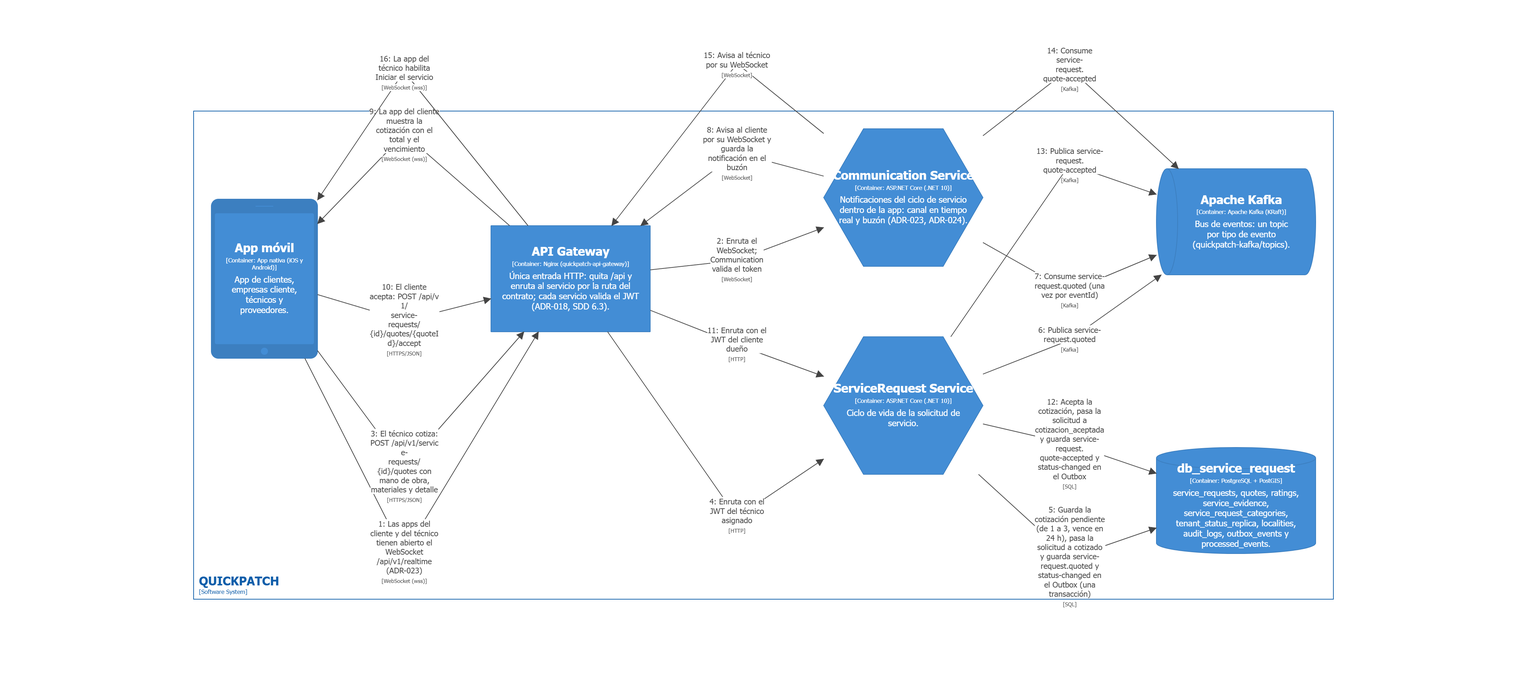
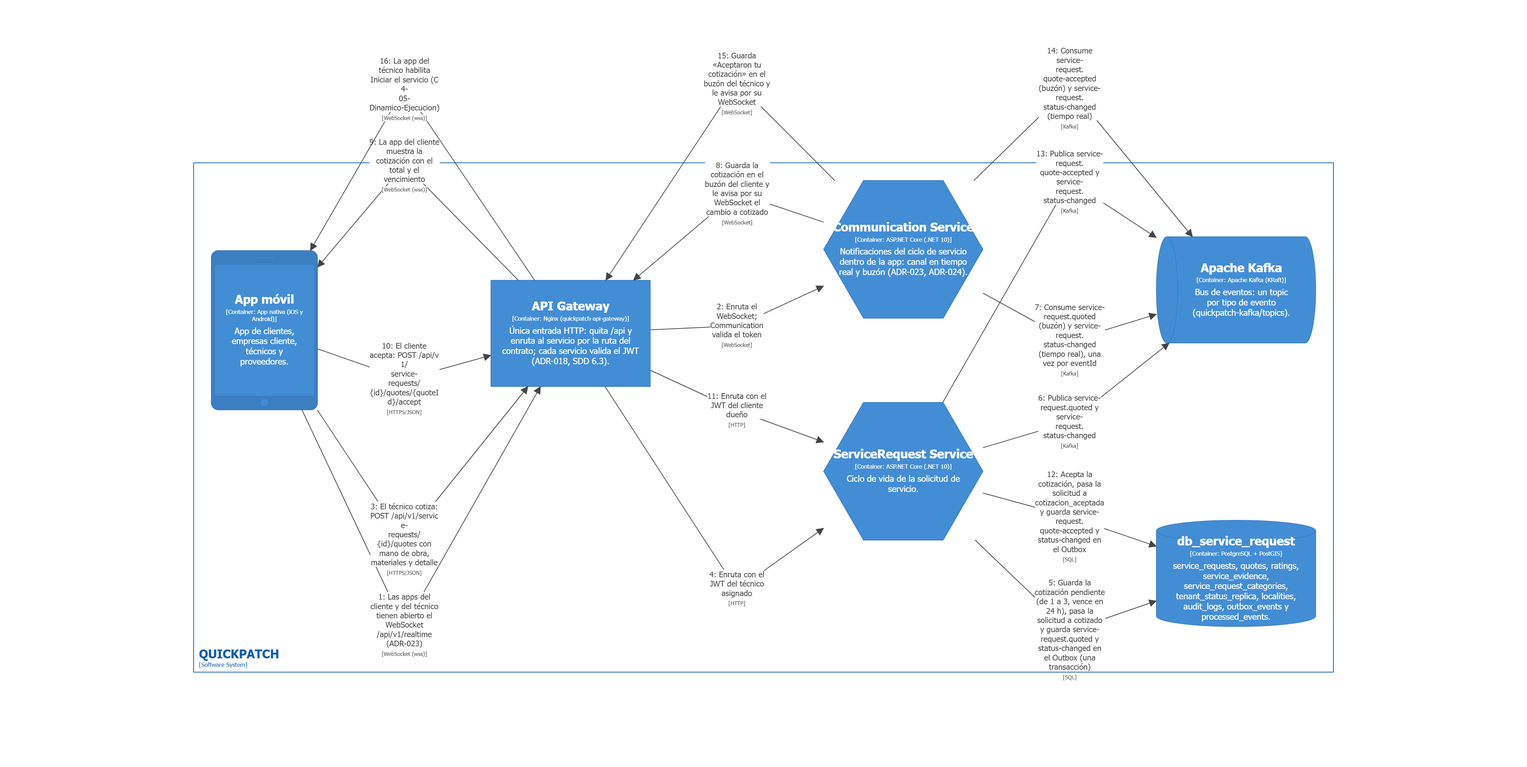
docs(sdd): dinámicos verificados contra el código, paso a paso y sin duplicados (SCRUM-684)
SCRUM-685, verificación contra el código y contracts/kafka:
- Cotización: Communication avisa en tiempo real con service-request.status-changed;
  quoted y quote-accepted solo van al buzón.
- Pago: faltaba que Matching consuma service-request.completed y libere al técnico
  (RN-M6, RN-M10); completar exige evidencia (RN-SR3).
- Calificación: ruta /api/v1 y nombre del evento que consume Identity.
- La secuencia de 8.3 tenía a Communication consumiendo matching.technician-assigned
  y la de 8.4 a Wompi y a Communication consumiendo payment.approved: no es lo
  implementado.

SCRUM-686, redibujo y duplicados:
- CrearSolicitud y AsignacionTecnico repetían la búsqueda: quedan en una sola vista,
  C4-05-Dinamico-CreacionAsignacion (23 pasos numerados).
- Vistas nuevas: C4-05-Dinamico-SinTecnico (AC9-E4, RN-M10) y
  C4-05-Dinamico-Ejecucion (inicio y evidencia en Garage).
- SDD 8.3 y 8.4: un solo diagrama por escenario (el dinámico); se quitan las
  secuencias que los repetían. 8.13.3 corregida (oferta, aceptación, cotización,
  evidencia y pasarela simulada) y 8.13.4 sin escenarios en diseño.

diff --git a/docs/architecture/SDD.md b/docs/architecture/SDD.md
@@ -86,9 +86,10 @@ Los diagramas que no son de C4 (capas, modelo de dominio, secuencias UML, estruc
 | `C4-04-Componentes-Communication` | Component | 18 |
 | `C4-07-Codigo-OutboxIdempotencia` | Code (PlantUML) | 19 |
 | `C4-07-Codigo-AislamientoTenant` | Code (PlantUML) | 20 |
-| `C4-05-Dinamico-CrearSolicitud` | Dynamic | 22 |
-| `C4-05-Dinamico-AsignacionTecnico` | Dynamic | 22b |
-| `C4-05-Dinamico-Cotizacion` | Dynamic | 22c |
+| `C4-05-Dinamico-CreacionAsignacion` | Dynamic | 21 |
+| `C4-05-Dinamico-SinTecnico` | Dynamic | 22 |
+| `C4-05-Dinamico-Cotizacion` | Dynamic | 22b |
+| `C4-05-Dinamico-Ejecucion` | Dynamic | 23 |
 | `C4-05-Dinamico-Pago` | Dynamic | 24 |
 | `C4-05-Dinamico-InicioSesion` | Dynamic | 25 |
 | `C4-05-Dinamico-ReplicaCategorias` | Dynamic | 26 |
@@ -893,155 +894,59 @@ Toda coordinación, cálculo derivado y propagación de estado entre microservic
 - Emisión de facturas/comprobantes por el Payments Service.
 - Recálculo de reputación promedio de técnicos por el Ranking Service tras una calificación.
 
-## 8.3 Secuencia de creación de solicitud y matching
+## 8.3 Creación de la solicitud y asignación del técnico
 
-Este flujo va desde la solicitud del cliente hasta que un técnico acepta la oferta (RF-07, RF-09, RF-10, D1, AC1-E1, AC2-E3). Sigue las reglas de matching del DD V4 (RN-M1 a RN-M10) y los contratos `service-request.v1.yaml` 1.1.0, `matching.v1.yaml` 1.0.0 y `asyncapi/realtime.v1.yaml` 1.0.0 de `quickpatch-api-gateway` v0.5.0. El aviso a cada persona llega por el canal de estado en tiempo real (ADR-023).
+Este flujo va desde la solicitud del cliente hasta que ve a su técnico asignado (RF-07, RF-09, RF-10, RF-11, D1, AC1-E1, AC2-E3). Sigue las reglas de matching del DD V4 (RN-M1 a RN-M10) y los contratos `service-request.v1.yaml`, `matching.v1.yaml` y `asyncapi/realtime.v1.yaml` de `quickpatch-api-gateway`. Cada escenario tiene un solo diagrama: el dinámico de C4, con los pasos numerados y el evento real de `contracts/kafka` en cada paso (SCRUM-684). Las secuencias de detalle con las alternativas y los errores de cada contrato están en `DIAGRAMS_SCRUM591_DYNAMIC_FLOWS.md` y no repiten estos escenarios.
 
-1. **Recepción:** el cliente envía `POST /v1/service-requests` con la categoría, la descripción, la dirección y la ubicación. El API Gateway quita `/api` y enruta a ServiceRequest Service, que valida el JWT y toma el tenant y el usuario del token (ADR-018); el gateway no valida el token.
-2. **Persistencia y Outbox:** ServiceRequest valida la categoría en su réplica (ADR-017), guarda la solicitud en `buscando_tecnico` y, en la misma transacción, el evento `service-request.created` en `outbox_events` (ADR-007). El publicador lo envía a Kafka.
-3. **Búsqueda:** Matching Service consume el evento una vez por `eventId` y busca candidatos con PostGIS: técnicos **aprobados**, **disponibles**, de la **especialidad** de la solicitud, con una **localidad de cobertura** que contiene la ubicación, **sin otra oferta pendiente** y a los que no se les haya ofrecido ya esta solicitud (RN-M9). La especialidad y la verificación vienen de su proyección de `technician.*` (P-01).
-4. **Oferta:** al candidato más cercano le registra una oferta en `matching_attempts` que vence a los **3 minutos** (RN-M8) y publica `matching.offer-created`. Una solicitud tiene una sola oferta pendiente a la vez (RN-M1). Communication avisa al técnico por su WebSocket.
-5. **Respuesta del técnico** (sección 8.3.1): si **acepta** antes de que venza, el técnico pasa a `ocupado` y Matching publica `matching.technician-assigned` (RN-M2, RN-M4, RN-M6, RN-M7); ServiceRequest pasa la solicitud a `asignado` y Communication avisa al cliente. Si **rechaza o deja vencer** la oferta, Matching se la ofrece al siguiente candidato (RN-M3).
-6. **Sin candidatos (AC9-E4):** si no hay técnicos que cumplan todos los filtros, Matching no relaja las reglas: publica `matching.no-technician-available` y la solicitud pasa a `en_espera`. Cuando aparece un técnico que podría atenderla (se marca disponible, cambia su cobertura, es aprobado o termina otro servicio), Matching publica `matching.search-resumed`, empezando por la solicitud más antigua, y la búsqueda vuelve al paso 3 (RN-M10).
+1. **Recepción (pasos 3 a 5):** el cliente envía `POST /api/v1/service-requests`. El API Gateway quita `/api` y enruta a ServiceRequest, que valida el JWT y toma el tenant y el usuario del token (ADR-018); el gateway no valida el token. ServiceRequest valida la categoría en su réplica (ADR-017) y guarda la solicitud en `buscando_tecnico` y `service-request.created` en `outbox_events`, en una transacción (ADR-007).
+2. **Búsqueda y oferta (pasos 6 a 13):** Matching consume el evento una vez por `eventId` y busca con PostGIS técnicos **aprobados**, **disponibles**, de la **especialidad**, con una **localidad de cobertura** que contiene la ubicación, **sin otra oferta pendiente** y a los que no se les haya ofrecido ya esta solicitud (RN-M9). Al más cercano le registra una oferta que vence a los **3 minutos** (RN-M8) y publica `matching.offer-created`. Communication consume `service-request.created` y `matching.offer-created`, guarda las notificaciones en el buzón y avisa por WebSocket (ADR-023).
+3. **Aceptación (pasos 14 a 23):** Matching acepta solo si la oferta sigue pendiente, es del técnico y no venció, y si el técnico sigue `disponible`; si no, responde `409 oferta-no-disponible` o `409 tecnico-no-disponible`. Marca al técnico `ocupado` y publica `matching.technician-assigned` (RN-M2, RN-M4, RN-M6, RN-M7). ServiceRequest pasa la solicitud a `asignado` y publica `service-request.status-changed`; Communication avisa con ese evento y no con el de Matching (SCRUM-466). El técnico ve la localidad y la distancia, y la dirección solo al quedar asignado (RN-SR13).
+4. **Rechazo o vencimiento:** Matching repite los pasos 8 a 13 con el siguiente candidato (RN-M3).
 
-```mermaid
-sequenceDiagram
-    autonumber
-    actor C as Cliente
-    participant GW as API Gateway
-    participant SR as ServiceRequest Service
-    participant K as Kafka
-    participant M as Matching Service
-    participant COM as Communication Service
-    actor T as Técnico
+![Creación de la solicitud y asignación del técnico (C4 · Dynamic)](diagrams/c4/C4-05-Dinamico-CreacionAsignacion.png)
 
-    C->>GW: POST /v1/service-requests (categoría, ubicación, dirección)
-    GW->>SR: Enruta (SR valida el JWT; tenant y usuario del token)
-    SR->>SR: Guarda la solicitud (buscando_tecnico) y el outbox en una transacción
-    SR-->>C: 201 Created
-    SR->>K: Publicador del outbox: service-request.created
-    K-->>M: Consume (una vez por eventId)
-    M->>M: Candidatos RN-M9 (PostGIS) y oferta con vencimiento a 3 min
-    M->>K: matching.offer-created
-    K-->>COM: Consume la oferta
-    COM-->>T: Aviso por WebSocket (ADR-023)
+**Figura 21. Escenario: creación de la solicitud y asignación del técnico (C4 · Dynamic; SCRUM-684). Vista `C4-05-Dinamico-CreacionAsignacion`.**
 
-    alt El técnico acepta antes de que venza
-        T->>GW: POST /v1/matching/offers/{attemptId}/accept
-        GW->>M: Enruta (Matching valida el JWT del técnico)
-        M->>M: Oferta aceptada; técnico ocupado (RN-M2, RN-M6, RN-M7)
-        M->>K: matching.technician-assigned
-        par Estado
-            K-->>SR: Consume: la solicitud pasa a asignado
-        and Aviso
-            K-->>COM: Consume la asignación
-            COM-->>C: Aviso por WebSocket; la app pide el detalle
-        end
-    else Rechaza o la oferta vence
-        M->>M: Oferta al siguiente candidato (RN-M3)
-    else No quedan candidatos
-        M->>K: matching.no-technician-available
-        K-->>SR: Consume: la solicitud pasa a en_espera
-        Note over M: Cuando aparece un técnico que puede atenderla, matching.search-resumed (RN-M10)
-    end
-```
+### 8.3.1 Sin técnico disponible (AC9-E4)
 
-**Figura 21. Creación de solicitud, oferta al técnico y respuesta (secuencia; DD V4).**
+Si ningún técnico cumple todos los filtros, Matching no los relaja: publica `matching.no-technician-available` y ServiceRequest pasa la solicitud a `en_espera`. Cuando aparece un técnico que podría atenderla (se marca disponible, cambia su cobertura, lo aprueban o termina otro servicio), Matching toma la solicitud en espera más antigua, publica `matching.search-resumed` y le ofrece la solicitud; ServiceRequest la vuelve a `buscando_tecnico` (RN-M10).
 
----
+![Sin técnico disponible (C4 · Dynamic)](diagrams/c4/C4-05-Dinamico-SinTecnico.png)
 
-**Vista C4.** Los diagramas dinámicos muestran el flujo a nivel de contenedores y numerado: cada uno lleva como título el escenario que representa, y sus pasos nombran el evento de Kafka que viaja en cada uno. La Figura 22 va de la solicitud a la oferta, y la Figura 22b recorre el escenario completo de la asignación, desde `service-request.created` hasta que el cliente ve a su técnico (SCRUM-590).
+**Figura 22. Escenario: solicitud sin técnico disponible y reanudación de la búsqueda (C4 · Dynamic; SCRUM-684). Vista `C4-05-Dinamico-SinTecnico`.**
 
-![Creación de solicitud y matching (C4 · Dynamic)](diagrams/c4/C4-05-Dinamico-CrearSolicitud.png)
+### 8.3.2 Cotización
 
-**Figura 22. Creación de una solicitud, búsqueda del técnico y oferta (C4 · Dynamic). Vista `C4-05-Dinamico-CrearSolicitud`.**
-
-### 8.3.1 Aceptación de la oferta por el técnico (SCRUM-30)
-
-El técnico ve sus ofertas pendientes con la localidad y la distancia, pero no la dirección, que solo recibe al quedar asignado (RN-SR13; `GET /v1/matching/offers?status=pendiente`). Al aceptar (`POST /v1/matching/offers/{attemptId}/accept`), Matching Service verifica en una sola transacción que la oferta siga `pendiente`, sea de ese técnico y no haya vencido, y que el técnico siga `disponible`. Si no, responde `409 oferta-no-disponible` o `409 tecnico-no-disponible`. Si todo se cumple, marca al técnico `ocupado` y publica `matching.technician-assigned` por el Outbox. ServiceRequest la consume, pasa la solicitud a `asignado` y publica `service-request.status-changed` en la misma transacción; Communication consume ese evento (no el de Matching, SCRUM-466), guarda la notificación en el buzón y avisa al cliente por su WebSocket.
-
-![Aceptación del técnico (C4 · Dynamic)](diagrams/c4/C4-05-Dinamico-AsignacionTecnico.png)
-
-**Figura 22b. Escenario: asignación de técnico a una solicitud (C4 · Dynamic). Vista `C4-05-Dinamico-AsignacionTecnico`.**
-
-**Cotización.** Con el técnico asignado, la solicitud pasa por la cotización antes de iniciar (RF-34, RF-35). El técnico emite hasta tres cotizaciones; cada una vence a las 24 horas, y al rechazar la tercera la solicitud se cancela (RN-Q2, RN-Q6 a RN-Q8). Cada paso guarda el cambio y sus eventos en una transacción (ADR-007), y Communication avisa al otro participante por el canal en tiempo real y el buzón.
+Con el técnico asignado, la solicitud pasa por la cotización antes de iniciar (RF-34, RF-35). El técnico emite hasta tres cotizaciones; cada una vence a las 24 horas, y al rechazar la tercera la solicitud se cancela (RN-Q2, RN-Q6 a RN-Q8). Cada paso guarda el cambio y sus eventos en una transacción (ADR-007). Communication guarda `service-request.quoted` y `service-request.quote-accepted` en el buzón y avisa en tiempo real con `service-request.status-changed`.
 
 ![Cotización del servicio (C4 · Dynamic)](diagrams/c4/C4-05-Dinamico-Cotizacion.png)
 
-**Figura 22c. Escenario: cotización del servicio (C4 · Dynamic; SCRUM-589, desde los flujos de SCRUM-591). Vista `C4-05-Dinamico-Cotizacion`.**
+**Figura 22b. Escenario: cotización del servicio (C4 · Dynamic; SCRUM-589 y SCRUM-684). Vista `C4-05-Dinamico-Cotizacion`.**
 
-## 8.4 Secuencia de pago y facturación
+## 8.4 Ejecución, pago y comprobante
 
-Este flujo describe el cierre operativo del servicio y el cobro bajo el estándar PCI-DSS y el modelo Merchant of Record (RF-15, RF-22, RF-24, D4, D7, K2, ADR-009, AC3-E1, AC6-E1, AC9-E1, AC9-E5):
+Este flujo describe el cierre operativo del servicio y el cobro, como está implementado (RF-14, RF-15, RF-22, RF-24, D4, D7, K2, ADR-009 modificado, AC3-E1, AC6-E1, AC9-E1, AC9-E5):
 
-1. **Inicio y Evidencia:** El técnico ejecuta el servicio (`POST /v1/service-requests/{id}/start`, estado `en_progreso`). Antes de completar, sube la foto obligatoria vía `POST /v1/service-requests/{id}/evidence`; el archivo se guarda en Garage (VM6; VM7 en QA) y la referencia URL se persiste en `service_evidence` (D7).
-2. **Cierre Técnico:** El técnico solicita completar el servicio (`POST /v1/service-requests/{id}/complete`). `ServiceRequest Service` valida como precondición obligatoria que exista al menos una evidencia en `service_evidence` (AC9-E1). Si se cumple, el estado cambia a `completado` y se publica `service-request.completed`.
-3. **Tokenización de Tarjeta (PCI-DSS):** El cliente ingresa los datos de su tarjeta directamente en el formulario o SDK provisto por la pasarela de pagos (PSP - Wompi). Ni el PAN ni el CVV pasan por el backend propio (K2, ADR-009, AC6-E1). El cliente recibe un token temporal (`provider_token_ref`).
-4. **Solicitud de Cobro:** El cliente confirma el pago en la app enviando `POST /v1/service-requests/{id}/payment` con el token.
-5. **Procesamiento de Pago:** `Payments Service` crea el registro en `payments` (estado `pendiente`) y llama a la API del PSP para procesar la transacción.
-6. **Resolución del Cobro:**
-   - *Aprobado:* Actualiza `payments.status = 'aprobado'`, genera el comprobante en `invoices` a nombre de la plataforma (Merchant of Record, D4) con número único de factura, y publica `payment.approved` vía Transactional Outbox.
-   - *Rechazado o Fallo del PSP (AC9-E5):* Actualiza a `rechazado`, publica `payment.rejected` y la solicitud no pasa a pagada, evitando cobros dobles y permitiendo reintento seguro.
-7. **Cierre de Ciclo:** `ServiceRequest Service` consume `payment.approved` y actualiza el estado a `pagado`. `Communication Service` notifica la aprobación y envía el enlace de descarga de la factura.
-8. **Calificación:** El cliente califica el servicio (`POST /v1/service-requests/{id}/rating`, 1 a 5 estrellas). Se almacena en `ratings` y se emite el evento para que `Ranking Service` actualice la reputación agregada del técnico.
+1. **Inicio (Figura 23, pasos 3 a 9):** el técnico asignado envía `POST /api/v1/service-requests/{id}/start`. Solo se inicia desde `cotizacion_aceptada`; la solicitud pasa a `en_progreso` y ServiceRequest publica `service-request.started`, que hoy nadie consume, y `service-request.status-changed`, con el que Communication avisa al cliente.
+2. **Evidencia (Figura 23, pasos 10 a 13):** el técnico sube la foto con `POST /api/v1/service-requests/{id}/evidence`. ServiceRequest la guarda en Garage (VM6; VM7 en QA, ADR-016) y registra la referencia en `service_evidence` (D7).
+3. **Cierre técnico (Figura 24, pasos 3 a 6):** `POST /api/v1/service-requests/{id}/complete`. ServiceRequest exige al menos una evidencia (RN-SR3, AC9-E1), pasa la solicitud a `completado` y publica `service-request.completed` con el total de la cotización aceptada.
+4. **Pago pendiente y liberación del técnico (pasos 7 a 10):** Payments consume `service-request.completed` y crea el pago pendiente (RN-P4). Matching consume el mismo evento y devuelve al técnico a `disponible`, con lo que puede tomar la solicitud en espera más antigua (RN-M6, RN-M10).
+5. **Cobro (pasos 11 a 14):** la app tokeniza la tarjeta en el teléfono y envía solo el token con `POST /api/v1/service-requests/{id}/payment`; ni el PAN ni el CVV llegan al backend (K2, AC6-E1). Payments cobra con la pasarela simulada, un adaptador dentro del servicio (ADR-009 modificado), y guarda el pago aprobado, el comprobante a nombre de la plataforma (Merchant of Record, D4) y `payment.approved` en una transacción. Si la pasarela rechaza, publica `payment.rejected` y la solicitud sigue en `completado` para reintentar (RN-SR5, AC9-E5).
+6. **Cierre del ciclo (pasos 15 a 21):** ServiceRequest consume `payment.approved`, pasa la solicitud a `pagado` (RN-SR4) y publica `service-request.status-changed`; Communication avisa al cliente y al técnico. El comprobante se descarga con `GET /api/v1/payments/{id}/invoice`.
 
-```mermaid
-sequenceDiagram
-    autonumber
-    actor T as Técnico
-    participant GW as API Gateway
-    participant S3 as Garage (Almacenamiento)
-    participant SR as ServiceRequest Service
-    actor C as Cliente
-    participant PSP as Wompi (PSP)
-    participant P as Payments Service
-    participant K as Kafka Broker
-    participant COM as Communication Service
+La pasarela certificada y su webhook siguen planeados (sección 6.10). La calificación que sigue al pago está en la Figura 27.
 
-    T->>GW: POST /v1/service-requests/{id}/evidence (Foto)
-    GW->>S3: Guarda archivo fotográfico
-    S3-->>GW: URL de la evidencia
-    GW->>SR: Guarda URL en service_evidence
-    
-    T->>GW: POST /v1/service-requests/{id}/complete
-    GW->>SR: Valida que exista evidencia previa
-    SR->>SR: Cambia estado a 'completado'
-    SR->>K: Publica: service-request.completed
-    
-    C->>PSP: Ingresa tarjeta (Directo al SDK de Wompi - PCI-DSS)
-    PSP-->>C: Retorna Token Seguro (provider_token_ref)
-    
-    C->>GW: POST /v1/service-requests/{id}/payment (Token)
-    GW->>P: Solicita cobro
-    P->>PSP: Autoriza cobro con el Token
-    PSP-->>P: Pago Aprobado
-    
-    P->>P: Cambia estado a 'aprobado'
-    P->>P: Genera Factura en BD
-    P->>K: Outbox publica: payment.approved
-    
-    par Actualización de Solicitud
-        K-->>SR: Consume evento
-        SR->>SR: Cambia estado a 'pagado'
-    and Notificación al Cliente
-        K-->>COM: Consume evento
-        COM-->>C: Notifica pago exitoso y envía enlace Factura
-    end
-```
+![Ejecución del servicio y evidencia (C4 · Dynamic)](diagrams/c4/C4-05-Dinamico-Ejecucion.png)
 
-**Figura 23. Flujo de finalización de servicio, tokenización PCI-DSS y facturación.**
+**Figura 23. Escenario: ejecución del servicio y evidencia (C4 · Dynamic; SCRUM-684). Vista `C4-05-Dinamico-Ejecucion`.**
 
----
+![Pago y comprobante (C4 · Dynamic)](diagrams/c4/C4-05-Dinamico-Pago.png)
 
-**Vista C4.** El escenario de pago a nivel de contenedores, como está implementado: el pago pendiente lo crea `service-request.completed`, el cobro lo hace la pasarela simulada dentro de Payments (ADR-009 modificado) y la solicitud pasa a `pagado` con `payment.approved`. La pasarela certificada y su webhook siguen planeados (sección 6.10).
-
-![Pago tokenizado y facturación (C4 · Dynamic)](diagrams/c4/C4-05-Dinamico-Pago.png)
-
-**Figura 24. Escenario: pago del servicio y comprobante (C4 · Dynamic; SCRUM-589). Vista `C4-05-Dinamico-Pago`.**
+**Figura 24. Escenario: pago del servicio y comprobante (C4 · Dynamic; SCRUM-589 y SCRUM-684). Vista `C4-05-Dinamico-Pago`.**
 
 ## 8.5 Otros flujos críticos
 
-Cada diagrama dinámico numera la colaboración entre contenedores para un flujo. Se documentan los flujos que cruzan más de un contenedor o que fijan una regla de seguridad; los de creación de solicitud y pago están en las secciones 8.3 y 8.4.
+Cada diagrama dinámico numera la colaboración entre contenedores para un flujo. Se documentan los flujos que cruzan más de un contenedor o que fijan una regla de seguridad; los de creación, asignación, cotización, ejecución y pago están en las secciones 8.3 y 8.4.
 
 **Inicio de sesión.** El tenant sale del canal (`X-Channel-Id`, RN-U5) y el JWT lo firma Identity con RS256 (ADR-018).
 
@@ -1055,7 +960,7 @@ Cada diagrama dinámico numera la colaboración entre contenedores para un flujo
 
 **Figura 26. Alta de una categoría y su réplica en ServiceRequest (C4 · Dynamic). Vista `C4-05-Dinamico-ReplicaCategorias`.**
 
-**Calificación y reputación.** La calificación del cliente recalcula la reputación del técnico de forma asíncrona (RF-12; diseño).
+**Calificación y reputación.** La calificación del cliente recalcula la reputación del técnico de forma asíncrona (RF-12, RF-20).
 
 ![Calificación y reputación (C4 · Dynamic)](diagrams/c4/C4-05-Dinamico-Calificacion.png)
 
@@ -1293,7 +1198,7 @@ Para cada escenario se documenta: actor, precondiciones, flujo principal, flujos
 | **Datos involucrados** | `technician_availability`, `coverage_zones`, `matching_attempts`, `service_requests`. |
 | **Eventos / Endpoints** | Consume `service-request.created` · produce `matching.technician-assigned`. |
 | **Relación con Container y Component** | Matching Service (Sección 6.8), Figura 14 (flujo lógico del matching). |
-| **Relación con Dynamic (sección 8)** | **Resuelto:** Figuras 21, 22 y 22b (búsqueda, oferta y aceptación), **Sección 8.7** (Consumer Groups asignados) y **Sección 8.8** (Concurrencia y bloqueo temporal `expires_at`). |
+| **Relación con Dynamic (sección 8)** | **Resuelto:** Figura 21 (búsqueda, oferta y aceptación), **Sección 8.7** (Consumer Groups asignados) y **Sección 8.8** (Concurrencia y bloqueo temporal `expires_at`). |
 | **Relación con la organización del código (sección 10)** | **Resuelto:** Matching Service en Java + Spring Boot con capas `api`, `application`, `domain` e `infrastructure` (secciones 6.8 y 10.8); en la app, `features/solicitudes` (Servicios del técnico) y las ofertas con SCRUM-80. |
 | **Relación con Deployment (sección 9)** | **Resuelto:** Figuras 30 y 31: Matching corre en el k3s de VM3 (VM2 en QA) y consulta PostgreSQL + PostGIS en VM4 (VM5); la latencia se mide en las pruebas de carga (sección 8.12). |
 | **Requisitos (SRS)** | RF-09, RF-10 · RNF-05 (asignación en menos de 60s) |
@@ -1310,7 +1215,7 @@ Para cada escenario se documenta: actor, precondiciones, flujo principal, flujos
 | **Datos involucrados** | `matching_attempts`, `service_requests`. |
 | **Eventos / Endpoints** | Produce `matching.no-technician-available`. |
 | **Relación con Container y Component** | Matching Service, estado `en_espera` de `ServiceRequestStatus`. |
-| **Relación con Dynamic (sección 8)** | **Resuelto:** rama «No quedan candidatos» de la Figura 21 y sección 8.3, paso 6 (`matching.no-technician-available` y `matching.search-resumed`, RN-M10). No tiene vista C4 dinámica propia. |
+| **Relación con Dynamic (sección 8)** | **Resuelto:** Figura 22 y sección 8.3.1 (`matching.no-technician-available` y `matching.search-resumed`, RN-M10). |
 | **Relación con la organización del código (sección 10)** | **Resuelto:** consumidor de Matching en ServiceRequest (sección 6.7) y `WaitingRequestsSweeper` en Matching (sección 6.8); en la app, el indicador de búsqueda de `features/solicitudes` (SCRUM-77). |
 | **Relación con Deployment (sección 9)** | **Resuelto:** los mismos contenedores del escenario 2 (Figuras 30 y 31). |
 | **Requisitos (SRS)** | RF-09 (manejo explícito de "En espera" cuando no hay técnico disponible) |
@@ -1349,15 +1254,15 @@ Para cada escenario se documenta: actor, precondiciones, flujo principal, flujos
 
 | | |
 |---|---|
-| **Actor** | Sistema (Payments Service), PSP externo |
+| **Actor** | Sistema (Payments Service, con la pasarela simulada de ADR-009 modificado) |
 | **Precondiciones** | Pago iniciado (Escenario 5). |
-| **Flujo principal** | 1. El PSP responde de forma asíncrona. 2. Payments Service produce `payment.approved` o `payment.rejected`. 3. ServiceRequest Service consume el evento: si es `approved`, transiciona a `pagado`; si es `rejected`, permanece en `completado` y permite reintento. 4. Si fue aprobado, Billing genera `Invoice`. |
+| **Flujo principal** | 1. La pasarela simulada responde dentro de Payments (la pasarela certificada y su webhook siguen planeados). 2. Payments Service produce `payment.approved` o `payment.rejected`. 3. ServiceRequest Service consume el evento: si es `approved`, transiciona a `pagado`; si es `rejected`, permanece en `completado` y permite reintento. 4. Si fue aprobado, Billing genera `Invoice`. |
 | **Flujos alternos** | Pago rechazado → el cliente puede reintentar (vuelve al Escenario 5). |
 | **Servicios participantes** | Payments Service, ServiceRequest Service. |
 | **Datos involucrados** | `payments`, `invoices`. |
 | **Eventos / Endpoints** | Produce `payment.approved` / `payment.rejected` · `GET /v1/payments/{id}/invoice`. |
 | **Relación con Container y Component** | Payments Service — módulo *Billing / Invoice Management*. |
-| **Relación con Dynamic (sección 8)** | **Resuelto:** Ver **Sección 8.4** (Separación entre interacción PCI-DSS de Wompi y el procesamiento asíncrono) y **Sección 8.10** (Idempotencia). |
+| **Relación con Dynamic (sección 8)** | **Resuelto:** Figura 24 y **Sección 8.4**, pasos 5 y 6 (tokenización en el teléfono, cobro y `payment.rejected`), y **Sección 8.10** (Idempotencia). |
 | **Requisitos (SRS)** | RF-24 |
 
 #### Escenario 7 — El cliente califica el servicio
@@ -1410,6 +1315,7 @@ Cubre el flujo Escenarios 1 → 2 → 4 → 5 → 6 → 7 (registro → matching
 
 ```mermaid
 sequenceDiagram
+    autonumber
     actor C as Cliente
     actor T as Técnico
     participant GW as API Gateway
@@ -1417,44 +1323,56 @@ sequenceDiagram
     participant SR as ServiceRequest Service
     participant MS as Matching Service
     participant PAY as Payments Service
-    participant PSP as PSP externo
     participant RK as Ranking Service
+    participant COM as Communication Service
     participant K as Kafka
 
-    C->>GW: POST /auth/register/client
-    GW->>ID: registrar usuario
-    C->>GW: POST /auth/login
-    GW->>ID: validar credenciales
-    ID-->>C: AuthenticatedContext
+    C->>GW: POST /api/v1/auth/register/client (X-Channel-Id)
+    GW->>ID: Registra al usuario en el tenant del canal
+    C->>GW: POST /api/v1/auth/login
+    GW->>ID: Valida credenciales y firma el JWT RS256 (ADR-018)
+    ID-->>C: accessToken
 
-    C->>GW: POST /service-requests
-    GW->>SR: crear solicitud
+    C->>GW: POST /api/v1/service-requests
+    GW->>SR: Guarda la solicitud (buscando_tecnico) y el Outbox
     SR->>K: service-request.created
-
-    K->>MS: consume service-request.created
-    MS->>MS: Candidate Search (PostGIS)
+    K->>MS: Consume: candidatos RN-M9 (PostGIS) y oferta a 3 min
+    MS->>K: matching.offer-created
+    K->>COM: Consume: avisa al técnico por WebSocket
+    T->>GW: POST /api/v1/matching/offers/{attemptId}/accept
+    GW->>MS: Técnico ocupado (RN-M6)
     MS->>K: matching.technician-assigned
-    K->>SR: consume evento -> estado asignado
+    K->>SR: Consume: asignado y service-request.status-changed
 
-    T->>GW: POST /service-requests/{id}/start
-    GW->>SR: estado en_progreso
-    T->>GW: POST /service-requests/{id}/complete
-    GW->>SR: estado completado
+    T->>GW: POST /api/v1/service-requests/{id}/quotes
+    C->>GW: POST /api/v1/service-requests/{id}/quotes/{quoteId}/accept
+    GW->>SR: cotizado y después cotizacion_aceptada
 
-    C->>GW: POST /service-requests/{id}/payment
-    GW->>PAY: iniciar pago
-    PAY->>PSP: tokenizar y procesar
-    PSP-->>PAY: aprobado
+    T->>GW: POST /api/v1/service-requests/{id}/start
+    GW->>SR: en_progreso
+    T->>GW: POST /api/v1/service-requests/{id}/evidence
+    GW->>SR: Foto en Garage y referencia en service_evidence
+    T->>GW: POST /api/v1/service-requests/{id}/complete
+    GW->>SR: Exige evidencia (RN-SR3): completado
+    SR->>K: service-request.completed
+    K->>PAY: Consume: pago pendiente (RN-P4)
+    K->>MS: Consume: el técnico vuelve a disponible
+
+    C->>GW: POST /api/v1/service-requests/{id}/payment (token de la tarjeta)
+    GW->>PAY: Cobra con la pasarela simulada (ADR-009 modificado) y genera el comprobante
     PAY->>K: payment.approved
-    K->>SR: consume evento -> estado pagado
+    K->>SR: Consume: pagado y service-request.status-changed
+    K->>COM: Consume service-request.status-changed: avisa a cliente y técnico
 
-    C->>GW: POST /service-requests/{id}/rating
-    GW->>SR: guardar ratings y Outbox (misma transacción)
+    C->>GW: POST /api/v1/service-requests/{id}/rating
+    GW->>SR: Guarda ratings y el Outbox (una transacción)
     SR->>K: service-request.rated
-    K->>RK: consume evento -> recalcula reputación
+    K->>RK: Consume: recalcula la reputación
     RK->>K: ranking.technician-reputation-changed
-    K->>ID: consume evento -> technician_profiles
+    K->>ID: Consume: technician_profiles
 ```
+
+Es un resumen de los escenarios 1 a 7 para la prueba de punta a punta. Cada tramo tiene su diagrama dinámico con todos los pasos (figuras 21, 22b, 23, 24 y 27); los avisos de Communication se resumen aquí con `service-request.status-changed`.
 
 ---
 
@@ -1462,12 +1380,12 @@ sequenceDiagram
 
 | # | Escenario | Componentes principales | Container y Component | Dynamic | Organización del código | Deployment |
 |---|---|---|---|---|---|---|
-| 1 | Registro y creación de solicitud | Identity, Catalog, ServiceRequest | ✅ Figuras 3, 9, 10, 12 y 13 | ✅ Figuras 21, 22 y 25 | ✅ Secciones 6.2, 10.2 y 10.3 | ✅ Figuras 30 y 31 |
-| 2 | Matching y asignación | Matching, ServiceRequest, Communication | ✅ Figuras 3, 13, 15 y 18 | ✅ Figuras 21, 22 y 22b | ✅ Secciones 6.8 y 10.8 | ✅ Figuras 30 y 31 |
-| 3 | Sin técnico disponible | Matching, ServiceRequest | ✅ Figuras 13 y 15 | 🟡 Figura 21 (rama sin candidatos), sin vista C4 propia | ✅ Secciones 6.7 y 6.8 | ✅ Figuras 30 y 31 |
-| 4 | Ejecución del servicio | ServiceRequest, Communication | ✅ Figura 13 | 🟡 Figura 23 (diseño) | ✅ Secciones 6.7 y 10.2 (evidencia en QA: `scrum-96-evidencia`) | ✅ Figuras 30 y 31 (Garage) |
-| 5 | Pago | Payments, ServiceRequest | ✅ Figura 17 (pasarela simulada) | 🟡 Figuras 23 y 24 (diseño) | ✅ Sección 6.10 (evidencia en QA: `scrum-495-comprobante`) | 🟡 Sin la pasarela certificada (proveedor por definir) |
-| 6 | Aprobación/rechazo PSP | Payments, ServiceRequest | ✅ Figura 17 (aprobado y rechazado con la pasarela simulada) | 🟡 Figuras 23 y 24 (diseño) | ✅ Sección 6.10 | 🟡 Sin la pasarela certificada (proveedor por definir) |
+| 1 | Registro y creación de solicitud | Identity, Catalog, ServiceRequest | ✅ Figuras 3, 9, 10, 12 y 13 | ✅ Figuras 21 y 25 | ✅ Secciones 6.2, 10.2 y 10.3 | ✅ Figuras 30 y 31 |
+| 2 | Matching y asignación | Matching, ServiceRequest, Communication | ✅ Figuras 3, 13, 15 y 18 | ✅ Figura 21 | ✅ Secciones 6.8 y 10.8 | ✅ Figuras 30 y 31 |
+| 3 | Sin técnico disponible | Matching, ServiceRequest | ✅ Figuras 13 y 15 | ✅ Figura 22 | ✅ Secciones 6.7 y 6.8 | ✅ Figuras 30 y 31 |
+| 4 | Ejecución del servicio | ServiceRequest, Communication | ✅ Figura 13 | ✅ Figura 23 | ✅ Secciones 6.7 y 10.2 (evidencia en QA: `scrum-96-evidencia`) | ✅ Figuras 30 y 31 (Garage) |
+| 5 | Pago | Payments, ServiceRequest | ✅ Figura 17 (pasarela simulada) | ✅ Figura 24 (pasarela simulada) | ✅ Sección 6.10 (evidencia en QA: `scrum-495-comprobante`) | 🟡 Sin la pasarela certificada (proveedor por definir) |
+| 6 | Aprobación/rechazo PSP | Payments, ServiceRequest | ✅ Figura 17 (aprobado y rechazado con la pasarela simulada) | ✅ Figura 24 (rechazo en la descripción de la vista) | ✅ Sección 6.10 | 🟡 Sin la pasarela certificada (proveedor por definir) |
 | 7 | Calificación | ServiceRequest, Ranking, Identity | ✅ Figuras 10, 13 y 16 | ✅ Figura 27 | ✅ Secciones 6.7, 6.9 y 10.2 (SCRUM-85 y SCRUM-498) | 🟡 Ranking en QA (figura 31, SCRUM-512); en producción llega con la promoción del MVP (figura 30, SCRUM-518) |
 | 8 | Aislamiento multi-tenant | API Gateway, todos los servicios | ✅ Figura 3a y sección 6.12 | ✅ Figuras 25 y 28; Figura 20 (C4 · Code) | ✅ Secciones 6.12 y 10.3 | ✅ Figuras 30, 31 y 33 |
 | 9 | Falla temporal de Kafka | Cualquier productor, Kafka | ✅ Figura 3b y sección 6.12 | ✅ Figura 29; Figura 19 (C4 · Code) | ✅ Secciones 8.10 y 10.3 | ✅ Figuras 30 y 31 |
@@ -2435,6 +2353,7 @@ Estos cambios responden a la retroalimentación final del profesor: arquitectura
 | Refactor interno de Catalog, ServiceRequest, Matching, Ranking y Payments con pruebas de arquitectura en su CI | 7.3 y 10.3.2 | SCRUM-651 a SCRUM-655 |
 | Contexto con los 6 roles agrupados por canal (4 en la app móvil y 2 en el panel web) y lectura vertical sin cruces; figuras 1 a 3 reexportadas | 3, 4 y 5.1 | SCRUM-688 y SCRUM-689 |
 | Vista de contenedores partida en dos para quitar los cruces: Figura 3a (REST y datos) y Figura 3b (qué publica y consume cada servicio en Kafka) | 5.1 | SCRUM-676 |
+| Dinámicos verificados contra el código y `contracts/kafka`: creación y asignación en una sola vista (antes dos que se repetían), vistas nuevas de «sin técnico» y de ejecución, Matching libera al técnico con `service-request.completed` en el pago, la cotización avisa con `service-request.status-changed`; se quitan las secuencias de 8.3 y 8.4 que repetían esos escenarios con errores (Wompi, Communication consumiendo `payment.approved` y `matching.technician-assigned`); la secuencia de punta a punta incluye oferta, aceptación, cotización y evidencia, y la pasarela simulada | 8.3, 8.4, 8.5, 8.13.2, 8.13.3 y 8.13.4 | SCRUM-685 y SCRUM-686 |
 
 ---
 

diff --git a/docs/architecture/diagrams/c4/README.md b/docs/architecture/diagrams/c4/README.md
@@ -63,9 +63,10 @@ En el repositorio están en `docs/architecture/diagrams/c4/<clave>.png`, sin el 
 | `C4-04-Componentes-Communication` | Component | 6.11 |
 | `C4-07-Codigo-OutboxIdempotencia` | Code (PlantUML) | 7.1 |
 | `C4-07-Codigo-AislamientoTenant` | Code (PlantUML) | 7.2 |
-| `C4-05-Dinamico-CrearSolicitud` | Dynamic | 8.3 |
-| `C4-05-Dinamico-AsignacionTecnico` | Dynamic | 8.3.1 |
-| `C4-05-Dinamico-Cotizacion` | Dynamic | 8.3 |
+| `C4-05-Dinamico-CreacionAsignacion` | Dynamic | 8.3 |
+| `C4-05-Dinamico-SinTecnico` | Dynamic | 8.3.1 |
+| `C4-05-Dinamico-Cotizacion` | Dynamic | 8.3.2 |
+| `C4-05-Dinamico-Ejecucion` | Dynamic | 8.4 |
 | `C4-05-Dinamico-Pago` | Dynamic | 8.4 |
 | `C4-05-Dinamico-Cancelacion` | Dynamic | 8.5 |
 | `C4-05-Dinamico-InicioSesion` | Dynamic | 8.5 |
